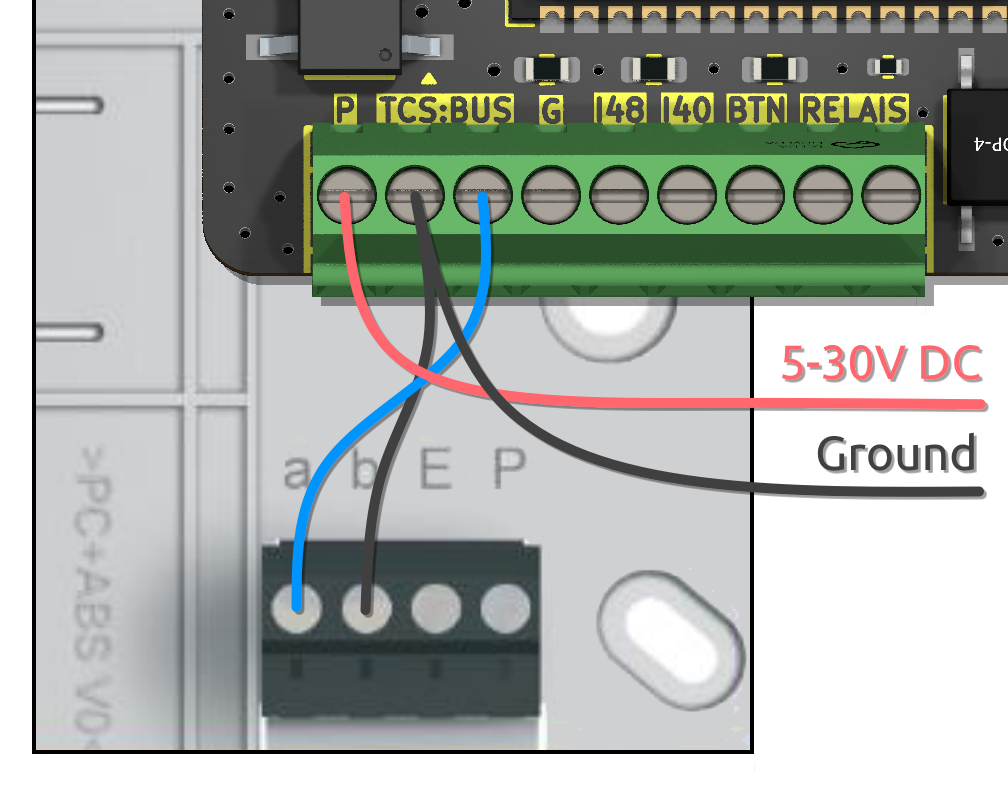
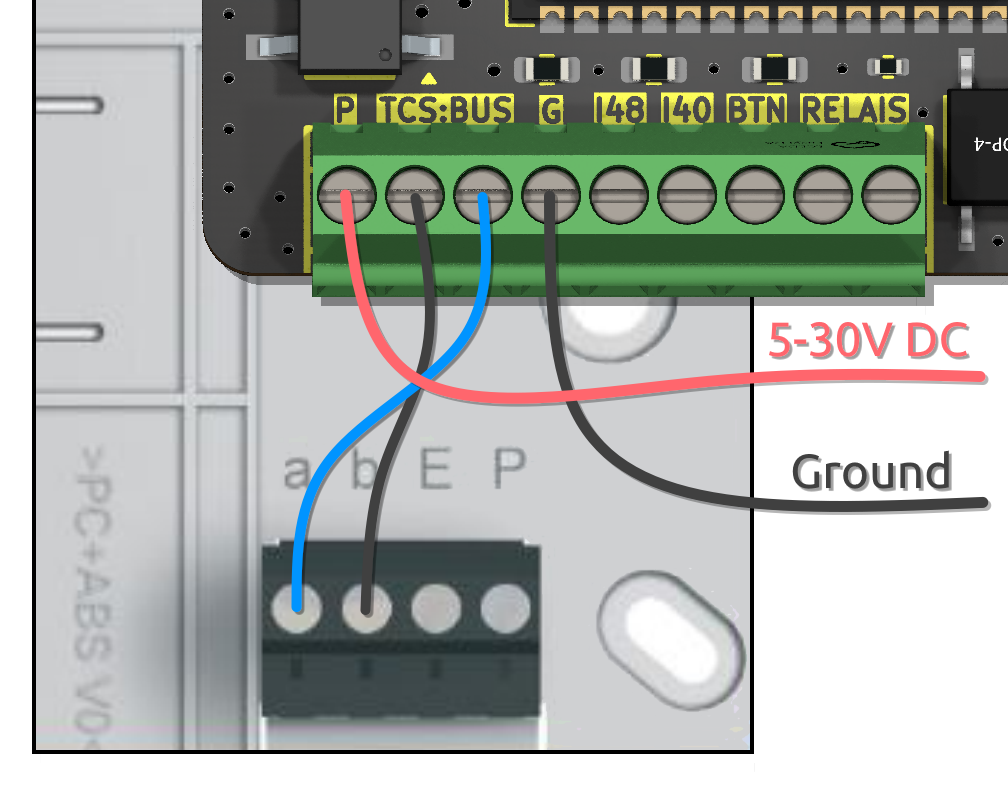
Update readme

diff --git a/README.md b/README.md
@@ -20,13 +20,13 @@ You could also monitor the voltage level on older intercoms (14-24V) by replacin
 Thanks a lot to [PCBWay](https://pcbway.com) for sponsoring this Project.
 Scroll down to "Manufacturing" to read more.
 
-** Please also take a look at the Getting started section for first-use instructions.**
+**Please also take a look at the Getting started section for first-use instructions.**
 
 ## 📦 Interested in buying one?
 
 Feel free to contact me on [Discord](https://discord.gg/t2d34dvmBf), [GitHub Issues](https://github.com/AzonInc/Doorman/issues) or by [E-Mail](mailto:flo@azon.ai?subject=Doorman).
 
-I offer you a fully assembled and tested Doorman-S3 for **26€** which comes with ESPHome pre-Installed for direct integration and adoption into Home Assistant.
+I offer you a fully assembled and tested Doorman-S3 which comes with ESPHome pre-installed for direct integration and adoption into Home Assistant.
 
 ## 📫 Have a question? Ran into a problem?
 
@@ -81,22 +81,7 @@ This is the prefered Firmware as it works out of the Box with the Doorman S3 Fir
 This Configuration inherits everything from the Stock Firmware and adds a Nuki Bridge Component via BLE on top.
 
 - **[Doorman by peteh](https://github.com/peteh/doorman)**\
-You need to adjust a few things to make it work with Doorman S3.
-
-## 🖲 GPIO
-
-Doorman-S3 is using some GPIO for a specific purpose and offers free GPIO as well.
-
-| GPIO | Purpose |
-| :-----: | :-----:|
-| GPIO01 | Red Status LED |
-| GPIO02 | WS2812B RGB Status LED |
-| GPIO08 | TCS Bus TX - Shorts the Bus to Ground |
-| GPIO09 | TCS Bus RX - Reading Bus Data / ADC input (behind Voltage Divider - 1M+160K) |
-| GPIO40 | Free I/O |
-| GPIO41 | External Button (10K Resistor) |
-| GPIO42 | Relay for analog door opener |
-| GPIO48 | Free I/O |
+You need to adjust a few things (GPIO, Board Type, Flash Size) to make it work with Doorman S3.
 
 ## ⚡ Wiring
 If your Intercom is connected in 2-wire mode and you dont have a separate 24V P-Line you need to use an external Power Supply via USB-C or P (+5V to +30V) and B (Ground) Screw Terminal.\
@@ -110,7 +95,6 @@ If it is connected in 3-wire mode you should be able to use the P-Line to power 
 
 > [!NOTE]
 > On some installations the a and b wires are twisted but it doesn't matter because Doorman has an integrated bridge rectifier to handles that for you.
-<!--> However if you want to power your Doorman in two-wire-mode using the bus wire it's only possible with hardware revision >= V1.4.-->
 
 > [!WARNING]
 > The minimum output current of the intercom power supply **must be 60mA** in order to achieve a stable operation!\
@@ -126,14 +110,10 @@ If it is connected in 3-wire mode you should be able to use the P-Line to power 
 #### 2-Wire Mode (with external Power Supply)
 <img src=".github/images/wiring_2wire_power_screwterminal.png" alt="2 Wire Installation" height="275">
 
-> [!IMPORTANT]
-> Please check the polarity of a- and b-wires as the bridge rectifier can only handle two wires but not three.
-> Be sure to connect the ground wire of your external power supply to the same Screw Terminal as the ground wire that comes from your intercom.
-
 1. Open the Intercom enclosure
 2. Connect the a-wire (24V Bus) to one of the TCS:BUS-Terminals of your Doorman
 3. Connect the b-wire (Ground) to the other TCS:BUS-Terminal of your Doorman
-4. Connect an external Power Supply via USB-C Port or P (+5V to +30V) and b (Ground) Screw Terminals of your Doorman
+4. Connect an external Power Supply via P (+5V to +30V) and G (Ground) Screw Terminals of your Doorman
 
 #### 2-Wire Mode (with external Power Supply via USB-C)
 <img src=".github/images/wiring_2wire_power_usb_c.png" alt="2 Wire Installation" height="275">
@@ -160,17 +140,45 @@ If it is connected in 3-wire mode you should be able to use the P-Line to power 
 1. Open the Intercom enclosure
 2. Connect the a-wire (24V Bus) to one of the TCS:BUS-Terminals of your Doorman
 3. Connect the b-wire (Ground) to the other TCS:BUS-Terminal of your Doorman
-4. Connect the P-wire (+24V) to the P-Terminal of your Doorman 
+4. Connect the P-wire (+24V) to the P-Terminal of your Doorman
+
+## 🚀 Getting started
+
+When you power on your Doorman-S3 for the first time it opens an Access Point called "Doorman-S3 Setup".
+The AP Password is "open-sesame".
+You can setup your WiFi credentials there or also via Improv Serial + Improv Bluetooth.
+
+Thanks to mDNS Support Homeassistant will find your Doorman out of the box.
+After adding your Doorman to Homeassistant you need to enable the Last Bus Command Sensor to capture the Bus commands of your intercom.
+
+When you obtained all neccessary commands you can adopt the device in your ESPHome Dashboard and flash the `stock.example.yaml` firmware with adjusted command values.
+
+After flashing the example you should have the following entities (if you enable all of them):
+
+<img src=".github/images/dashboard.png" alt="Homeassistant Device Dashboard" height="500">
+
+That's basically everything you need to do. Happy automating!
 
 ## 📟 Obtaining Command Codes from the Bus
 
-Depending on the Firmware you are using, there are different methods to obtain Command Codes.
+Every received Command Code is logged in the ESPHome Console (Debug Log-Level) and also published as an Home Assistant Event.
+Besides that there is a "Last Bus Command" Text Sensor (disabled by default) which shows the last Bus Command.
+If you use the command in your yaml config file you need to prepend 0x in order to interpret is as a hexadecimal number.
 
-- **[ESPHome](https://github.com/AzonInc/doorman/tree/master/firmware)**\
-If you use the ESPHome Doorman Firmware from this Repository, every received Command Code is logged in the ESPHome Console and also published as an Home Assistant Event. Besides that there is a "Last Bus Command" Text Sensor (disabled by default) which also shows the last Bus Command.
+## 🖲 GPIO
 
-- **[Doorman by peteh](https://github.com/peteh/doorman)**\
-You can find a detailed explanation in the repository. It's kinda similar.
+Doorman-S3 needs some GPIO for a specific purpose and offers free GPIO for your sensors.
+
+| GPIO | Purpose |
+| :----- | :-----|
+| GPIO01 | Red Status LED |
+| GPIO02 | WS2812B RGB Status LED |
+| GPIO08 | TCS Bus TX - Shorts the Bus to Ground |
+| GPIO09 | TCS Bus RX - Reading Bus Data / ADC input (onboard Voltage Divider - 1M+160K) |
+| GPIO40 | Free I/O |
+| GPIO41 | External Button (10K onboard resistor) |
+| GPIO42 | Relay for analog door opener |
+| GPIO48 | Free I/O |
 
 ## 🛠 Manufacturing
 
@@ -192,19 +200,6 @@ You can find all the neccessary files [here](https://github.com/AzonInc/doorman/
 In case you want an enclosure you can print your own one.\
 Just use the STL files provided [here](https://github.com/AzonInc/Doorman/tree/master/enclosure) and you'll be good to go.\
 <img src=".github/images/enclosure.png" alt="Doorman S3" height="275">
-
-## 🚀 Getting started
-
-When you power on your Doorman-S3 for the first time it opens an Access Point called "Doorman-S3 Setup".
-The AP Password is "open-sesame".
-You can setup your WiFi credentials there or also via Improv Serial + Improv Bluetooth.
-
-Thanks to mDNS Support Homeassistant will find your Doorman out of the box.
-After adding your Doorman to Homeassistant you need to enable the Last Bus Command Sensor to capture the Bus commands of your intercom.
-
-When you obtained all neccessary commands you can adopt the device in your ESPHome Dashboard and flash the `stock.example.yaml` firmware with adjusted command values.
-
-That's basically everything you need to do. Happy automating!
 
 ## ⚠ Disclaimer
 
